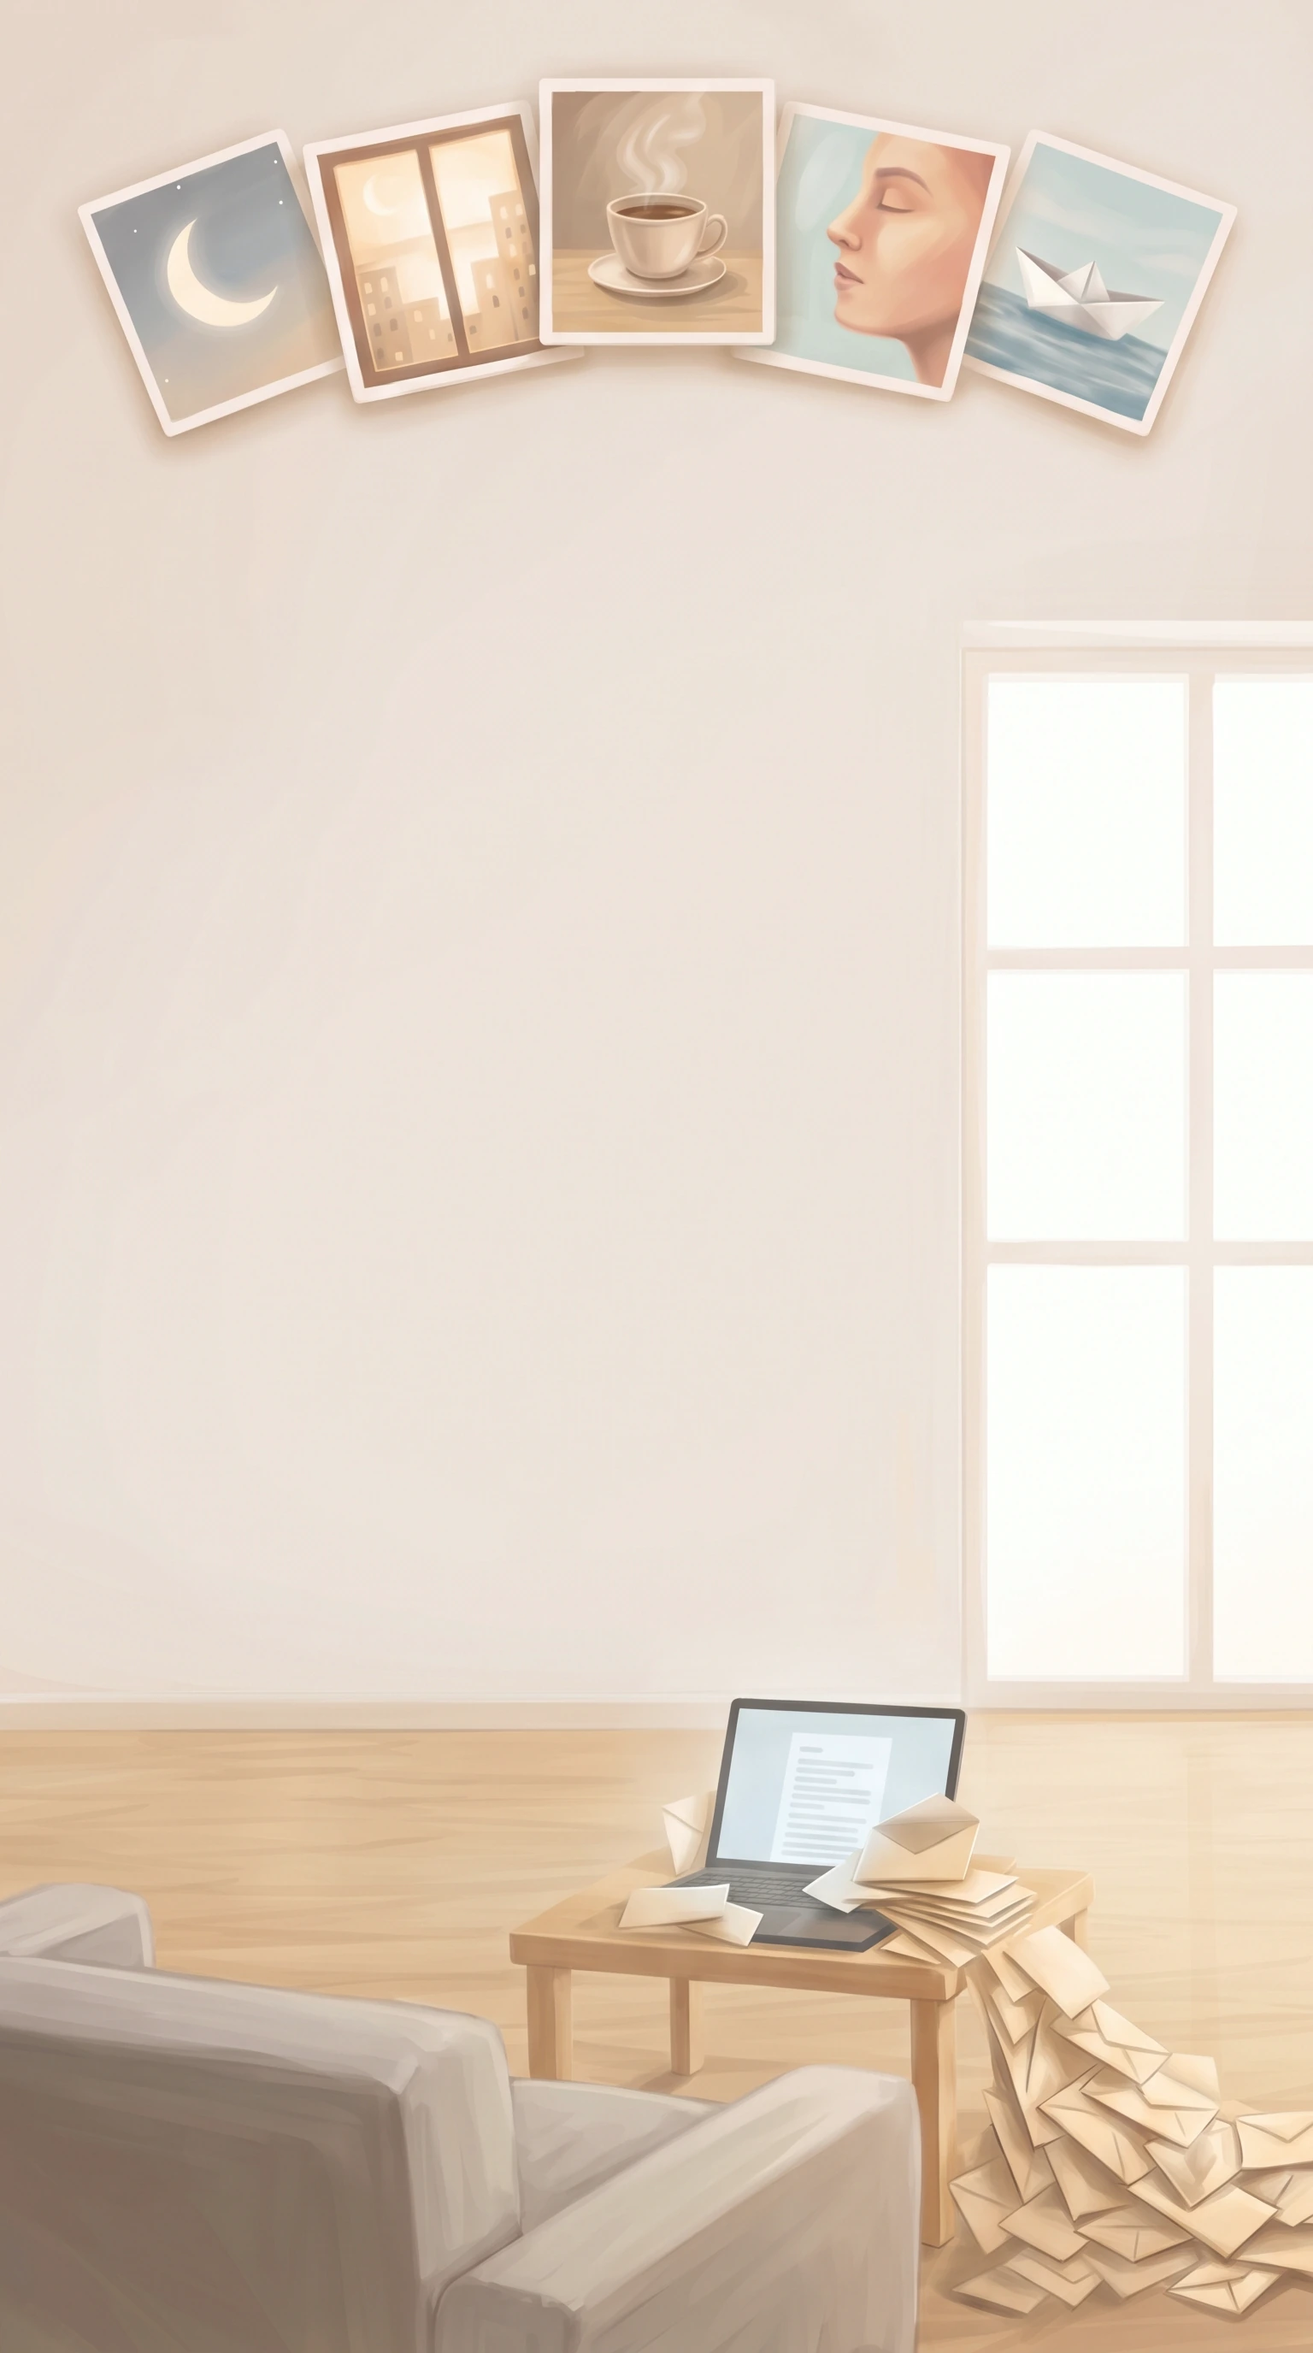
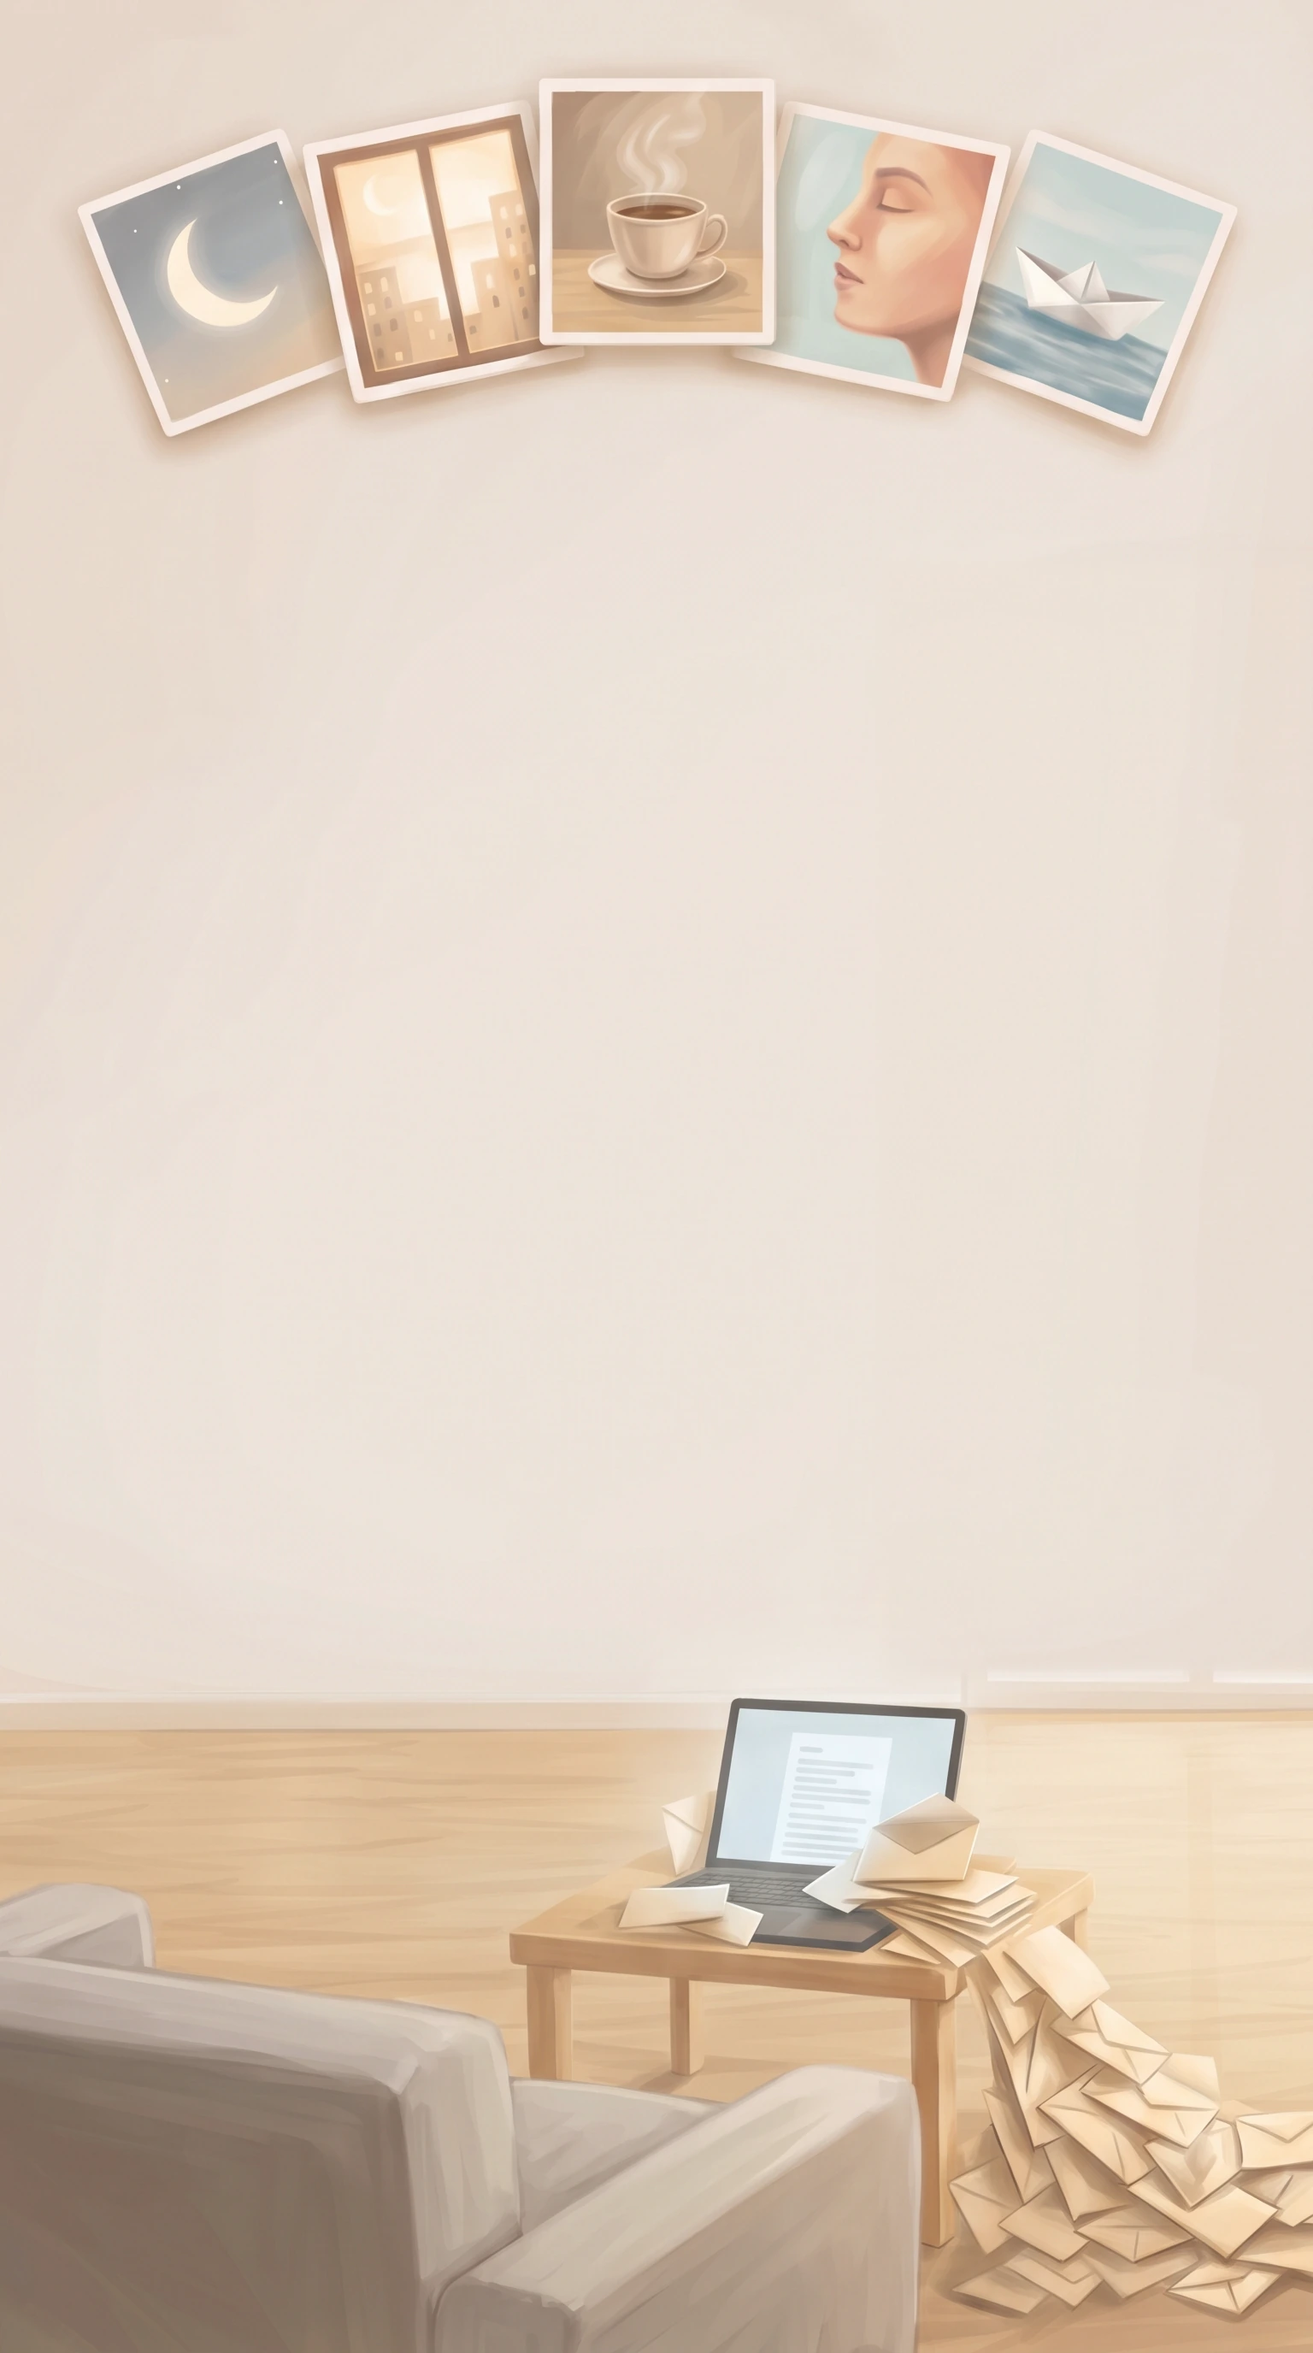
PlayLetter room: fixed day speed, still head, honest light, an issue on the right phone.
- One speed (the old 4x, a day every two minutes); the speed buttons are gone, the clock stays.
- His head no longer nods or tilts; only the foot keeps time.
- Phone room: the back-wall window is painted out (light now comes from off-screen right), and
  the glow ring the painting left around his phone is cut away (the wooden floor read as skin).
- Night light follows real shapes: no round halos at his phone or the laptop; the laptop screen
  glows in its own outline and the floating phones glow along their edges.
- The right-hand phone is now a newsletter issue whose cover is one of the wall's paintings,
  cycling issues; his phone's twin shows the same cover.

Claude-Session: https://claude.ai/code/session_01WcPpuVHTTS4izhVfNtPiRx

Changed region(s): [[0.75, 0.2812, 1.0, 0.7188]]

diff --git a/scenes/playletter-room/index.html b/scenes/playletter-room/index.html
@@ -81,6 +81,15 @@
   .ps-skip.r { border-right: 0; border-left: 8px solid var(--fg); }
   .ps-voice { text-align: center; font: 500 8px/1 Inter; color: var(--mute); margin-top: 9px; }
   .ps-voice b { color: var(--fg); font-weight: 600; }
+  .ps-hero { position: relative; height: 150px; margin: 4px 2px 10px; border-radius: 12px; overflow: hidden; box-shadow: 0 6px 18px -10px rgba(0,0,0,.4); }
+  .ps-hero img { position: absolute; inset: 0; width: 100%; height: 100%; object-fit: cover; transition: opacity 1.2s ease; }
+  .ps-ititle { font: italic 400 18px/1.15 Fraunces, serif; margin: 0 2px 4px; }
+  .ps-imeta { font: 500 8px/1 Inter; color: var(--mute); margin: 0 2px 10px; }
+  .ps-lines { flex: 1; padding: 0 2px; }
+  .ps-lines i { display: block; height: 6px; border-radius: 3px; background: var(--line); margin-bottom: 7px; }
+  .ps-lines i:nth-child(2n) { width: 86%; } .ps-lines i:last-child { width: 58%; }
+  .ps-listen { display: flex; align-items: center; justify-content: center; gap: 7px; height: 32px; border-radius: 99px; background: var(--mint); color: #fff; font: 600 10px/1 Inter; }
+  .ps-listen span { border-left: 7px solid #fff; border-top: 4.5px solid transparent; border-bottom: 4.5px solid transparent; }
   .ps-ring { width: 108px; height: 108px; margin: 6px auto 10px; border-radius: 50%; border: 3px solid var(--mint); display: grid; place-items: center;
     box-shadow: 0 0 0 7px rgba(95,176,137,.14); background: var(--card); }
   .ps-ring span { font: italic 400 44px/1 Fraunces, serif; color: var(--mint); }
@@ -101,6 +110,9 @@
   .hs-row span { flex: 1; height: 8px; border-radius: 4px; background: rgba(26,26,24,.18); }
   .hs-row b { width: 14px; height: 14px; border-radius: 50%; background: var(--mint); }
   .night .hs-row span { background: rgba(255,255,255,.2); }
+  .hs-hero { display: block; width: 92px; height: 100px; margin: 26px auto 16px; border-radius: 8px; object-fit: cover; }
+  .hs-ilines i { height: 8px; margin-bottom: 9px; }
+  .hs-listen { height: 22px; margin: 10px 18px 0; border-radius: 11px; background: var(--mint); }
   .hs-ring { width: 72px; height: 72px; margin: 40px auto 20px; border-radius: 50%; border: 4px solid var(--mint); display: grid; place-items: center; }
   .hs-ring span { font: italic 400 36px/1 Fraunces, serif; color: var(--mint); }
   .hs-pills { display: grid; grid-template-columns: 1fr 1fr; gap: 6px; padding: 0 14px; }
@@ -164,8 +176,7 @@
     .embed #copy { left: 0; padding-top: 128px; }
     #copy { right: 0; left: 0; top: 0; bottom: auto; max-width: none; padding: 78px 16px 40px;
       background: linear-gradient(to bottom, rgba(247,244,238,.92) 60%, rgba(247,244,238,0)); }
-    #controls { left: 16px; right: 16px; justify-content: space-between; }
-    #clock { display: none; }
+    #controls { left: 16px; right: 16px; justify-content: flex-end; }
   }
 </style>
 </head>
@@ -187,8 +198,8 @@
         <div class="hs-view" data-v="1"><img class="hs-mark" src="img/mark.webp" alt="">
           <div class="hs-lines"><i></i><i></i><i></i><i></i><i></i><i></i></div>
           <div class="hs-bar"><i></i></div></div>
-        <div class="hs-view" data-v="2"><div class="hs-ring"><span id="hsInitial">A</span></div>
-          <div class="hs-pills" id="hsPills"><i></i><i></i><i></i><i></i><i></i><i></i></div></div>
+        <div class="hs-view" data-v="2"><img class="hs-hero" id="hsHero" alt="">
+          <div class="hs-lines hs-ilines"><i></i><i></i><i></i></div><div class="hs-listen"></div></div>
       </div>
       <img id="fingers" data-src="man-fingers.webp" alt="">
     </div>
@@ -213,13 +224,14 @@
       <div class="ps-ctrl"><span class="ps-skip"></span><span class="ps-play"><i></i><i></i></span><span class="ps-skip r"></span></div>
       <div class="ps-voice">Read by <b id="kVoice">Lily</b></div>
     </div></div>
-    <div class="fphone" data-i="2"><div class="screen ps" id="scrVoices">
+    <div class="fphone" data-i="2"><div class="screen ps" id="scrIssue">
       <div class="ps-status"><span>9:41</span><span class="ps-sig"></span></div>
-      <div class="ps-h">Choose a voice</div>
-      <div class="ps-ring"><span id="vInitial">A</span></div>
-      <div class="ps-vname" id="vName">Ava</div>
-      <div class="ps-vwave" id="vWave"></div>
-      <div class="ps-vlist" id="vList"></div>
+      <div class="ps-pub" id="iPub">Slow Mornings</div>
+      <div class="ps-hero"><img id="iHeroA" alt=""><img id="iHeroB" alt=""></div>
+      <div class="ps-ititle" id="iTitle">The coffee hour</div>
+      <div class="ps-imeta" id="iMeta">Issue 14 · 6 min</div>
+      <div class="ps-lines"><i></i><i></i><i></i><i></i><i></i></div>
+      <div class="ps-listen"><span></span>Listen</div>
     </div></div>
     <canvas id="wave"></canvas>
     <canvas id="glow"></canvas>
@@ -237,12 +249,6 @@
 
 <div id="controls" class="ui">
   <div id="clock" aria-live="off">—</div>
-  <div class="pill" role="group" aria-label="Speed of the day" id="speed">
-    <button type="button" data-speed="1" aria-pressed="true">1×</button>
-    <button type="button" data-speed="2" aria-pressed="false">2×</button>
-    <button type="button" data-speed="3" aria-pressed="false">3×</button>
-    <button type="button" data-speed="4" aria-pressed="false">4×</button>
-  </div>
 </div>
 
 <script type="module">
@@ -279,8 +285,9 @@ const L = TALL ? {
     [7.6, 1180, 2300, 10, -6, 1.1, 1.25, 0.5],
     [8.6, 1150, 2290, 10, -6, 1.1, 1.25, 0],
   ],
-  shaft: { from: [1240, 980], to: [1520, 1780], aim: [1400, 1300] },
-  glows: { phone: [478, 2150, 170], laptop: [1000, 2090, 300], mark: [768, 820, 420], window: [1360, 1350, 640] },
+  shaft: { from: [1560, 860], to: [1560, 1760], aim: [1560, 1300] },
+  glows: { mark: [768, 820, 420], window: null },
+  laptopQuad: [[864, 1998], [1112, 2006], [1096, 2180], [838, 2174]],
   brand: null,
   wave: [[440, 1096, 1010, 12, 7, 90]],
 } : {
@@ -296,7 +303,8 @@ const L = TALL ? {
   floorY: 880, floorK: 0.32,
   sun: null, moon: null,
   shaft: { from: [1850, 210], to: [1972, 640], aim: [1900, 400] },
-  glows: { phone: [292, 760, 110], laptop: [610, 722, 240], mark: [1000, 520, 380], window: [1900, 380, 520] },
+  glows: { mark: [1000, 520, 380], window: [1900, 380, 520] },
+  laptopQuad: [[533, 672], [690, 674], [682, 778], [512, 777]],
   brand: true,
   wave: [[640, 800, 512, 9, 4, 80], [1200, 1360, 512, 9, 4, 80]],
 };
@@ -387,6 +395,7 @@ const PHONES = L.phones;
 const FLOOR_AT = L.shadows || [0, 0, 0];
 const touchedAt = [];
 const fphones = [...document.querySelectorAll(".fphone")], fshadows = [...document.querySelectorAll(".fshadow")];
+let nightGlow = 0;
 function floatPhones(t) {
   PHONES.forEach((p, i) => {
     const bob = Math.sin(t / p.period * Math.PI * 2 + p.phase) * p.amp;
@@ -394,7 +403,7 @@ function floatPhones(t) {
     const touch = Math.max(0, 1 - (t - (touchedAt[i] || -1e9)) / 900);   // eases back after he taps its twin
     Object.assign(fphones[i].style, { left: p.x - 104 + "px", top: p.y - 225 + "px",
       transform: `perspective(1400px) translateY(${bob - 10 * touch}px) rotate(${p.r + tilt * 0.4}deg) rotateY(${p.ry + tilt}deg) scale(${p.s * (1 + 0.045 * touch)})`,
-      boxShadow: `0 0 0 1.5px rgba(255,255,255,.18) inset, 0 30px 60px -20px rgba(30,24,18,.45), 0 0 ${40 * touch}px ${6 * touch}px rgba(95,176,137,${0.55 * touch})` });
+      boxShadow: `0 0 0 1.5px rgba(255,255,255,.18) inset, 0 30px 60px -20px rgba(30,24,18,.45), 0 0 ${40 * touch + 34 * nightGlow}px ${6 * touch + 2 * nightGlow}px rgba(95,176,137,${0.55 * touch + 0.28 * nightGlow})` });
     const lift = 1 - (bob + p.amp) / (p.amp * 2);      // higher phone = softer, smaller shadow
     Object.assign(fshadows[i].style, { left: p.x - 100 + "px", top: FLOOR_AT[i] - 17 + "px",
       transform: `scale(${(0.8 + 0.12 * lift) * p.s}, ${p.s})`, opacity: 0.55 + 0.3 * lift });
@@ -403,14 +412,8 @@ function floatPhones(t) {
 floatPhones(0);
 
 // ---------- the day ----------
-const DAY_MS_1X = 8 * 60 * 1000;
-let speed = Number(qs.get("speed")) || Number(store.get("plroom.speed")) || 1;
-function setSpeed(n) {
-  speed = n; store.set("plroom.speed", String(n));
-  document.querySelectorAll("#speed button").forEach((b) => b.setAttribute("aria-pressed", String(Number(b.dataset.speed) === n)));
-}
-document.querySelectorAll("#speed button").forEach((b) => b.addEventListener("click", () => setSpeed(Number(b.dataset.speed))));
-setSpeed(speed);
+// one day passes every two minutes (what the 4x setting was)
+const DAY_MS = 2 * 60 * 1000;
 let hour = qs.has("hour") ? Number(qs.get("hour")) : 8.2;   // where the day starts
 if (reduced && !qs.has("hour")) hour = 15.5;
 
@@ -508,6 +511,7 @@ function drawLight(h) {
   const sun = sunP || (moon ? [...moon, 0] : null);
   const isMoon = !sunP && !!moon;
   stage.classList.toggle("night", screenGlow > 0.55);
+  nightGlow = screenGlow;
   uc.setTransform(1, 0, 0, 1, 0, 0); uc.clearRect(0, 0, unfold.width, unfold.height);
   if (sun && sun[6] > 0.01) {
     const [cx, cy, kx, ky, sx, sy] = sun;
@@ -564,11 +568,13 @@ function drawLight(h) {
       glow.fillStyle = gr; glow.fillRect(0, 0, W / 2, H / 2);
     };
     const G = L.glows;
-    blob(G.phone[0], G.phone[1], G.phone[2], "235,236,225", 0.42 * screenGlow);   // phone on his face
-    blob(G.laptop[0], G.laptop[1], G.laptop[2], "240,232,215", 0.38 * screenGlow); // laptop
-    for (const p of PHONES) blob(p.x, p.y, 380 * p.s, "150,215,185", 0.30 * screenGlow);
-    blob(G.mark[0], G.mark[1], G.mark[2], "120,200,160", 0.22 * screenGlow);
-    blob(G.window[0], G.window[1], G.window[2], "150,175,225", 0.20 * screenGlow); // moonlight at the window
+    // the laptop screen gives off its own light, in its own shape (no round halos)
+    glow.save(); glow.scale(0.5, 0.5); glow.filter = "blur(10px)";
+    glow.fillStyle = `rgba(232,238,246,${0.5 * screenGlow})`;
+    glow.beginPath(); L.laptopQuad.forEach(([x, y], i) => (i ? glow.lineTo(x, y) : glow.moveTo(x, y))); glow.closePath(); glow.fill();
+    glow.restore();
+    blob(G.mark[0], G.mark[1], G.mark[2], "120,200,160", 0.18 * screenGlow);
+    if (G.window) blob(G.window[0], G.window[1], G.window[2], "150,175,225", 0.20 * screenGlow); // moonlight at the window
   }
 }
 const tintCanvas = document.createElement("canvas"); tintCanvas.width = unfold.width; tintCanvas.height = unfold.height;
@@ -618,9 +624,7 @@ function man(t) {
   const breath = Math.sin(t / 4500 * Math.PI * 2) * 0.5 + 0.5;
   bodyEl.style.transform = `scaleY(${1 + 0.004 * breath})`;
   const lift = -0.9 * breath;
-  const look = Math.sin(t / 31000) * Math.sin(t / 13000) * 1.4;
-  const nod = grooving ? 0.6 * tap : 0;
-  headEl.style.transform = `translateY(${lift}px) rotate(${look + nod}deg)`;
+  headEl.style.transform = `translateY(${lift}px)`;
   // a thumb flick every few seconds: the hand bobs, the feed jumps and settles
   if (t - flick.at > flick.next) {
     flick = { at: t, next: 4200 + Math.random() * 3000, from: flick.to, to: flick.to + 60 + Math.random() * 70 };
@@ -640,15 +644,24 @@ const libList = $("#libList");
 const libRow = ([t, sub, c], i) => `<div class="ps-item"><img src="img/cover-${c}.webp" alt=""><div><b>${t}</b><small>${VOICES[i % 6]} · ${6 + (i * 5) % 14} min</small></div><span class="pl"></span></div>`;
 libList.innerHTML = LIB.map(libRow).join("") + LIB.map(libRow).join("");
 let libH = 0, libY = 0, libTarget = 0, libNext = 0;
-$("#vList").innerHTML = VOICES.map((v) => `<span>${v}</span>`).join("");
-const vSpans = [...document.querySelectorAll("#vList span")];
-$("#vWave").innerHTML = "<i></i>".repeat(22);
-const vBars = [...document.querySelectorAll("#vWave i")];
-let vIdx = -1, vNext = 0;
+// the right-hand phone: an issue of a newsletter, its cover one of the paintings on the wall
+const ISSUES = [["Slow Mornings", "The coffee hour", 3, 14, 6], ["Paper Boats", "Small things, sent far", 5, 9, 4],
+  ["Window Seat", "Notes from the city", 2, 22, 8], ["Night Letters", "After the lights go down", 1, 31, 7], ["Faces", "A face in the crowd", 4, 6, 11]];
+const iHeroA = $("#iHeroA"), iHeroB = $("#iHeroB");
+let iIdx = -1, iNext = 0, iFront = iHeroB;
+function nextIssue(t) {
+  iIdx = (iIdx + 1) % ISSUES.length; iNext = t + 7000;
+  const [pub, title, art, no, min] = ISSUES[iIdx];
+  const back = iFront === iHeroA ? iHeroB : iHeroA;
+  back.src = `img/issue-${art}.webp`; back.style.opacity = 1; iFront.style.opacity = 0; iFront = back;
+  $("#iPub").textContent = pub; $("#iTitle").textContent = title; $("#iMeta").textContent = `Issue ${no} · ${min} min`;
+  $("#hsHero").src = `img/issue-${art}.webp`;
+}
+iHeroA.style.opacity = 0; iHeroB.style.opacity = 0;
 
 // his phone mirrors one floating screen at a time; a tap moves both
 const hsViews = [...document.querySelectorAll(".hs-view")];
-const hsLib = $("#hsLib"), hsPills = [...document.querySelectorAll("#hsPills i")];
+const hsLib = $("#hsLib");
 hsLib.innerHTML = [...LIB, ...LIB].map(([, , c]) => `<div class="hs-row"><img src="img/cover-${c}.webp" alt=""><span></span><b></b></div>`).join("");
 let hsCur = 1, hsLibStep = 0;
 hsViews.forEach((v, i) => v.classList.toggle("on", i === hsCur));
@@ -657,7 +670,7 @@ function touchScreen(t) {
   hsViews.forEach((v, i) => v.classList.toggle("on", i === hsCur));
   touchedAt[hsCur] = t;
   if (hsCur === 0) { libTarget += 59; libNext = t + 2400; hsLibStep = (hsLibStep + 1) % LIB.length; hsLib.style.transform = `translateY(${-46 * hsLibStep}px)`; }
-  if (hsCur === 2) vNext = 0;                                     // he picks the next voice
+  if (hsCur === 2) iNext = 0;                                     // he opens the next issue
 }
 
 // karaoke: words light up one at a time, in step with the waveform on the wall
@@ -698,14 +711,7 @@ function screens(t, dt) {
     kProg.style.width = `${f * 100}%`; handBar.style.width = `${f * 100}%`;
   }
   wordPulse *= Math.pow(0.004, dt / 1000);
-  // voices: a new one is chosen every few seconds, its sample bars dance
-  if (t > vNext) {
-    vIdx = (vIdx + 1) % VOICES.length; vNext = t + 3400;
-    vSpans.forEach((sp, i) => sp.classList.toggle("on", i === vIdx));
-    $("#vName").textContent = VOICES[vIdx]; $("#vInitial").textContent = VOICES[vIdx][0];
-    $("#hsInitial").textContent = VOICES[vIdx][0]; hsPills.forEach((pl, i) => pl.classList.toggle("on", i === vIdx));
-  }
-  vBars.forEach((b, i) => { b.style.height = `${4 + 14 * Math.abs(Math.sin(t / 170 + i * 0.7) * Math.sin(t / 430 + i * 0.3))}px`; });
+  if (t > iNext) nextIssue(t);
   floatPhones(t);
 }
 
@@ -718,7 +724,7 @@ let last = performance.now(), running = true, lastLight = -1;
 function frame(now) {
   if (!running) return;
   const dt = Math.min(100, now - last); last = now;
-  if (!reduced) hour = (hour + (dt * speed * 24) / DAY_MS_1X) % 24;
+  if (!reduced) hour = (hour + (dt * 24) / DAY_MS) % 24;
   applyCamera(now);
   const tap = reduced ? 0 : man(now);
   if (!reduced) screens(now, dt);
